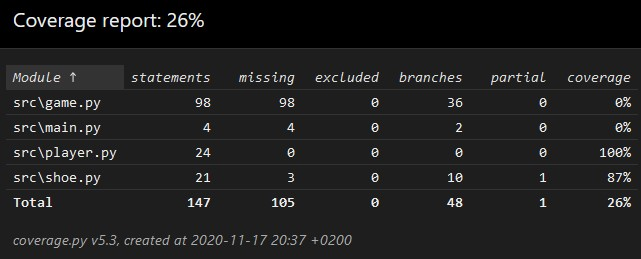
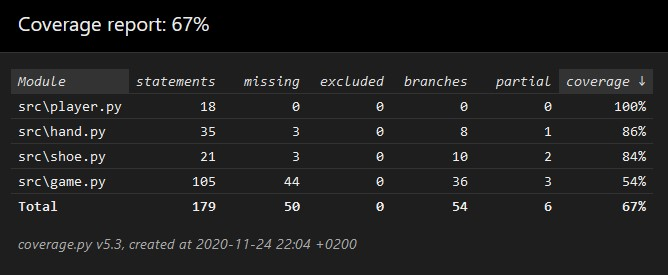
Kattavuusraporttia päivitetty

diff --git a/Blackjack/dokumentaatio/testausdokumentti.md b/Blackjack/dokumentaatio/testausdokumentti.md
@@ -4,11 +4,15 @@ Ohjelmaa on testattu sekä automatisoiduin yksikkö- ja integraatiotestein unitt
 
 ## Testikattavuus
 
-Testaukset ovat vasta aluillaan ja oikeastaan vain _player.py_ tämän hetkinen versio on testattu. Tästä johtuen testien kattavuus on tällä hetkellä vain 26%.
+Testauksia on laajennettu koskemaan jokaista luokkaa ja testauksen haarautumakattavuus on tällä hetkellä `67%`.
 
 ![](kattavuusraportti.jpg)
 
-Testaamatta jäivät _game.py_, _main.py_ sekä osittain _shoe.py_. Nämä lisätään mukaan testeihin seuraavassa päivityksessä.
+Testauksia laajennetaan seuraavaan versioon, sillä tavoitteena on lähes 100% haarautumakattavuus.
+
+## Pylint
+
+Pylintillä suoritettujen testien arvosana on tällä hetkellä `10.00/10`. Koodia on muokattu Pylintin antamien ilmoitusten mukaisesti ja jokaiselle luokalle, metodille sekä funktiolle on lisätty sen toimintaa selittävä docstring.
 
 ## Järjestelmätestaus
 
@@ -20,4 +24,5 @@ Sovellus on haettu ja sen asennusta on testattu [käyttöohjeen](kayttoohje.md) 
 
 ## Laatuongelmat
 
-Sovellus on tällä hetkellä ensimmäisessä versiossaan, eikä se edusta lopullista tuotetta.
+Sovellus on tällä hetkellä ensimmäisessä versiossaan, eikä se edusta lopullista tuotetta, sillä muun muassa puuttuvia toiminnallisuuksia on vielä lukuisia.
+
